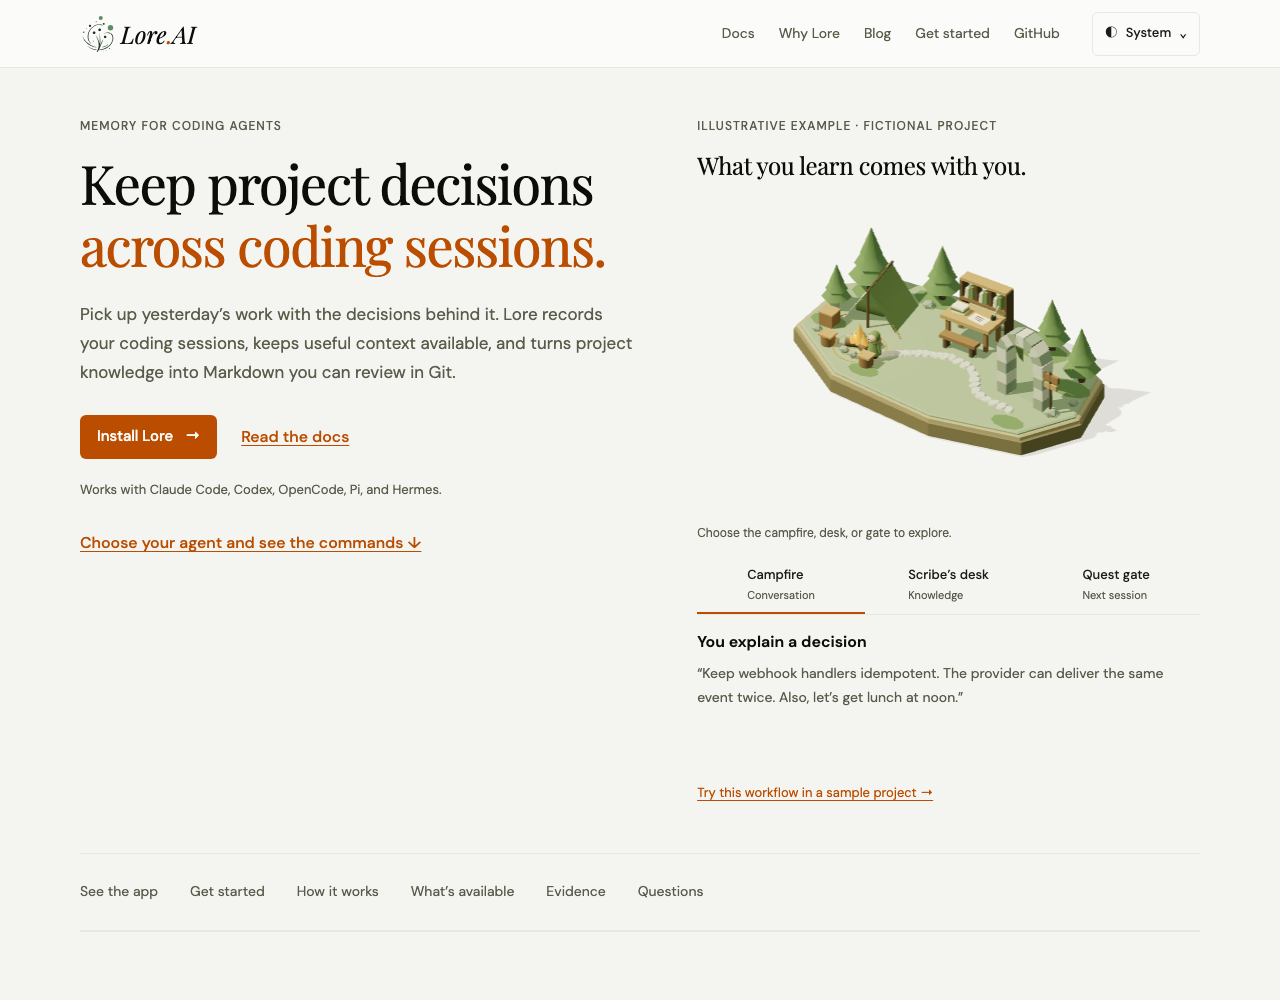
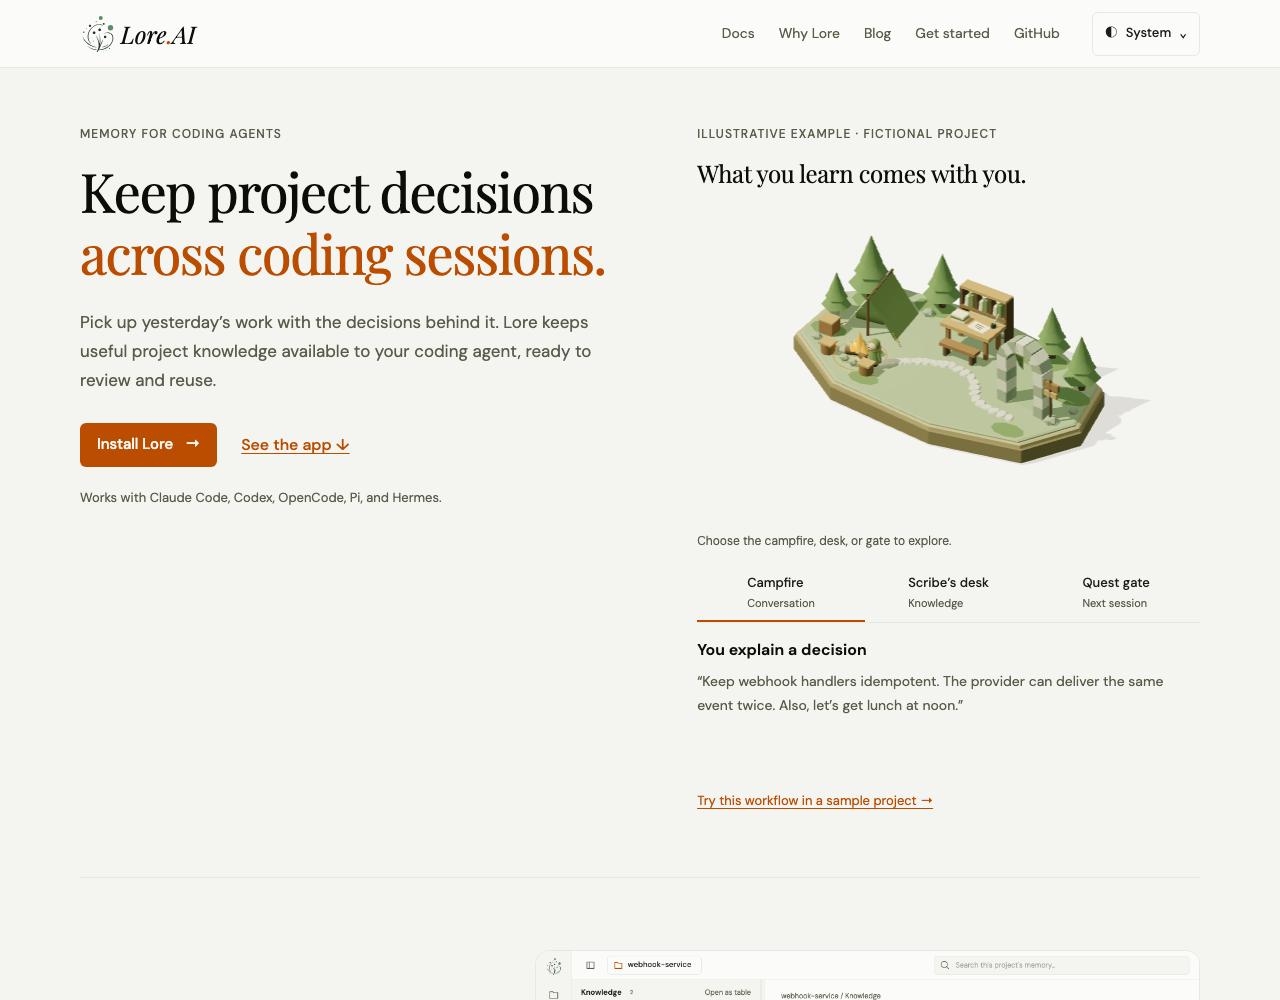
feat(website): Simplify the homepage around the camp

diff --git a/packages/website/test/browser/journey.spec.ts b/packages/website/test/browser/journey.spec.ts
@@ -27,15 +27,15 @@ test("benchmark evidence names the task, denominator and limitations", async ({
 }) => {
   await page.goto("/#evidence");
   const evidence = page.locator("#evidence");
-  await expect(evidence).toContainText("20 questions");
-  await expect(evidence).toContainText("13/20");
-  await expect(evidence).toContainText("5/20");
-  await expect(evidence).toContainText("single session");
-  await expect(
-    evidence.getByRole("link", { name: /methodology/i }),
-  ).toHaveAttribute("href", /benchmark/);
+  await expect(evidence.getByRole("link")).toHaveAttribute("href", /benchmark/);
   await expect(page.locator("#features")).toContainText("Available now");
   await expect(page.locator("#waitlist")).toContainText("Early access");
+  await evidence.getByRole("link").click();
+  const benchmark = page.locator("main");
+  await expect(benchmark).toContainText("Twenty authored questions");
+  await expect(benchmark).toContainText("13/20");
+  await expect(benchmark).toContainText("5/20");
+  await expect(benchmark).toContainText(/single session/i);
 });
 
 test("clipboard denial keeps the command readable and explains manual copying", async ({
@@ -46,7 +46,7 @@ test("clipboard denial keeps the command readable and explains manual copying", 
       value: { writeText: () => Promise.reject(new Error("denied")) },
     }),
   );
-  await page.goto("/");
+  await page.goto("/docs/install/");
   await page.getByRole("button", { name: "Copy installation command" }).click();
   await expect(page.locator(".copy-status")).toContainText(/select and copy/i);
   await expect(page.locator(".install-command")).toContainText(command);
@@ -91,7 +91,7 @@ test("signup preserves the email on error and provides a bounded success receipt
       await route.fulfill({ status: requests === 1 ? 503 : 200, json: {} });
     },
   );
-  await page.goto("/#waitlist");
+  await page.goto("/different/#waitlist");
   const email = page.getByRole("textbox", { name: "Email address" });
   await email.fill("reader@example.com");
   await page.getByRole("button", { name: "Join early access list" }).click();
@@ -190,7 +190,7 @@ test("pending signup is submitted once and its timeout offers recovery", async (
   await page.route("https://app.loops.so/api/newsletter-form/*", async () => {
     requests++;
   });
-  await page.goto("/#waitlist");
+  await page.goto("/different/#waitlist");
   await page
     .getByRole("textbox", { name: "Email address" })
     .fill("reader@example.com");

diff --git a/packages/website/public/theme.css b/packages/website/public/theme.css
@@ -208,3 +208,25 @@ th { font-weight: 500; }
 .tour-panel figcaption { margin-top:.75rem; }
 .home-hero { padding-block:3rem; }
 @media(max-width:600px) { .home-hero { padding-block:2rem; } .tour-picker { display:grid;grid-template-columns:1fr;gap:.375rem; } }
+
+/* A quiet overview; detailed choices live in the tour and installation guide. */
+.home-page .section { padding-block: 4.5rem; }
+.home-page .home-hero { padding-block: 3.5rem 4rem; }
+.product-spotlight { display: grid; grid-template-columns: .75fr 1.25fr; align-items: center; gap: 3.5rem; }
+.spotlight-copy p:not(.eyebrow) { color: var(--muted); margin-block: 1.25rem .75rem; }
+.spotlight-image { margin: 0; min-width: 0; }
+.spotlight-image figcaption { margin-top: .75rem; }
+.home-workflow .workflow { margin-bottom: 1rem; }
+.home-availability { color: var(--muted); font-size: .8125rem; margin-top: 2rem; }
+.home-availability strong { color: var(--text); font-weight: 500; }
+.home-page #questions { max-width: 800px; }
+.home-start { display: flex; flex-wrap: wrap; align-items: center; justify-content: space-between; gap: 1.5rem 2rem; }
+.home-start > div:first-child { max-width: 60ch; }
+.home-start p { color: var(--muted); margin-top: .75rem; }
+.home-resources { display: flex; flex-wrap: wrap; width: 100%; gap: .5rem 2rem; font-size: .8125rem; margin-top: 1rem; }
+.home-resources a { display: inline-flex; align-items: center; min-height: 44px; }
+.tour-intro { padding-bottom: 2.5rem; }
+.tour-intro h1 { margin-top: 1.25rem; }
+.tour-intro p { color: var(--muted); max-width: 65ch; margin-top: 1.25rem; }
+@media (max-width: 900px) { .product-spotlight { grid-template-columns: 1fr; gap: 2rem; } .spotlight-copy { max-width: 55ch; } }
+@media (max-width: 600px) { .home-page .section { padding-block: 3rem; } .home-page .home-hero { padding-block: 2rem 3rem; } .home-resources { gap: 0; } .home-start { align-items: flex-start; } }

diff --git a/packages/website/test/browser/product-journey.spec.ts b/packages/website/test/browser/product-journey.spec.ts
@@ -4,6 +4,10 @@ test("setup chooser supplies the Desktop route and preserves it into the first-s
   page,
 }) => {
   await page.goto("/");
+  await page
+    .locator(".home-hero")
+    .getByRole("link", { name: "Install Lore", exact: true })
+    .click();
   const setup = page.locator(".agent-setup");
   await setup
     .getByRole("radio", { name: "Codex Desktop", exact: true })
@@ -70,6 +74,16 @@ test("product tour shows the actual app and an accessible next step", async ({
   page,
 }) => {
   await page.goto("/");
+  await expect(
+    page.locator(".agent-setup, .tour-picker, .signup, .page-sections"),
+  ).toHaveCount(0);
+  await page
+    .locator("#product")
+    .getByRole("link", { name: "Explore the app", exact: true })
+    .click();
+  await expect(page.locator("h1")).toContainText(
+    "See what your agent remembers",
+  );
   const tour = page.locator(".product-tour");
   await expect(tour).toContainText("Sample data");
   await tour

diff --git a/packages/website/test/browser/website.spec.ts b/packages/website/test/browser/website.spec.ts
@@ -144,6 +144,7 @@ test("keyboard theme controls and native installation copy button", async ({
       .first()
       .evaluate((summary) => getComputedStyle(summary).outlineStyle),
   ).toBe("solid");
+  await page.goto("/docs/install/");
   const copy = page.getByRole("button", { name: "Copy installation command" });
   await copy.focus();
   await page.keyboard.press("Enter");
@@ -226,7 +227,7 @@ test("content and native navigation remain available without JavaScript", async 
 test("newsletter input retains a visible keyboard focus ring", async ({
   page,
 }) => {
-  await page.goto("/");
+  await page.goto("/different/#waitlist");
   const input = page.locator("#waitlist-email");
   await input.focus();
   expect(

diff --git a/docs/website-ui/README.md b/docs/website-ui/README.md
@@ -5,8 +5,10 @@ self-hosted fonts. The first-use flow now leads with concrete product copy,
 installation and a clearly fictional memory example. Shared navigation and compact
 native theme menus give every section a consistent structure.
 
-The homepage keeps the adventurer camp and connects it to a real-app tour and a
-client-specific setup chooser. Campfire, scribe’s desk, and quest gate still select
+The homepage keeps the adventurer camp, one static app preview, a concise everyday
+workflow, practical questions, and an installation link. The full app tour lives
+at `/tour/`; the client-specific setup chooser lives in the installation guides.
+Benchmark details and the team signup stay on their dedicated pages. Campfire, scribe’s desk, and quest gate still select
 the native memory stages. The example now contrasts a durable webhook rule with an
 unrelated lunch plan; the relevance story is explicitly illustrative.
 
@@ -51,12 +53,17 @@ These informed direct selection, finite travel and immediate example text.
 Landmark picking uses the existing Three.js package’s
 [raycaster](https://threejs.org/manual/en/picking.html).
 
+The simplified homepage product section links to the full tour instead of placing
+its controls in the main page.
+
+![Homepage product preview](screenshots/home-product-light.png)
+
 ## Approved audit coverage
 
 | Idea | Delivered behavior |
 | --- | --- |
-| 1. Actual product | Sessions, Knowledge/source history, and model-activity captures from the built app |
-| 2. Agent selection | Six fixed setup choices, including separate Codex CLI/Desktop paths and Pi prerequisites |
+| 1. Actual product | One homepage Knowledge preview links to the full Sessions, Knowledge/source-history, and model-activity tour |
+| 2. Agent selection | Installation and first-session guides offer six fixed choices, separate Codex CLI/Desktop paths, and Pi prerequisites |
 | 3. First success | First-session guide checks a recorded message, with connection-to-verification links |
 | 4. Everyday use | Task guide for resuming, finding decisions, correcting knowledge, switching agents, and sharing |
 | 5. Camp relevance | The preserved camp follows the useful webhook rule and distinguishes unrelated conversation |
@@ -65,12 +72,12 @@ Landmark picking uses the existing Three.js package’s
 | 8. Search | Built Pagefind with root and prefixed-preview search-result navigation verified |
 | 9. Troubleshooting | Symptom-based checks and expected observations, plus safe issue-reporting guidance |
 | 10. Reference clarity | Curated task intros, friendly environment groups, cleaned source-comment artifacts, generator parity |
-| 11. Concrete benefits | Continue a bug fix, switch agents, or share a convention, each linked to a task |
+| 11. Concrete benefits | One concise homepage workflow links to the daily-use guide for resuming, switching agents, and sharing |
 | 12. Decision guide | Why Lore distinguishes instruction files, application memory infrastructure, agent frameworks, and existing-client memory |
 | 13. Data and costs | Local/provider/embedding/telemetry boundaries, opt-out, import preview, and estimated-versus-billed usage |
 | 14. Availability | Local/Git features and Folk Lore early access are explicit, including historical article notes |
 | 15. Concise copy | Redundant copy instructions and fictional-example disclaimers removed; setup prerequisites clarified |
-| 16. Hierarchy/navigation | Functional docs headings, compact setup choices, shared start/help/data links |
+| 16. Hierarchy/navigation | Short homepage overview; full tour, setup, evaluation, and team signup disclosed on destination pages; functional docs headings |
 | 17. Practical blog paths | Plain article kinds, takeaways, availability context, and specific next steps |
 | 18. Reproducible proof | Webhook conversation, illustrative knowledge diff, later task, and separate observable milestones |
 

diff --git a/docs/superpowers/plans/2026-10-27-website-product-journey.md b/docs/superpowers/plans/2026-10-27-website-product-journey.md
@@ -76,3 +76,26 @@ Files: Why Lore, header/footer, blog schema/list/article, historical post notes,
 - Two independent reviews found no outstanding website correctness/security issue after fixes.
 - Broader repository suite remains non-green: completed earlier run had 13,945 pass / 91 fail / 272 skipped, 16 untouched failing files, and two failed snapshots. No clean-base reproduction or full-suite pass is claimed.
 - The final step is committing and updating existing PR #2115 with current evidence; no merge or deployment is authorized.
+
+
+## Follow-up: reduce homepage density
+
+The user found the overall page too busy. Keep the approved camp and all delivered
+help, but use progressive disclosure: one static Knowledge preview links to `/tour/`,
+installation and first-session guides own agent choices, and benchmark/team signup
+links lead to their existing destinations. Remove the homepage section-navigation
+strip, repeated feature blocks, evaluation table, and signup form. Keep legacy
+fragment destinations and exercise the complete interactions on their owning pages.
+
+Follow-up verification: 254 browser tests passed with 6 conditional skips; 14
+website unit tests passed; Astro checked 39 files with zero diagnostics. Workspace
+typechecks, lint, formatting, generated-doc parity, and 37-page social metadata
+passed. The final prefixed build had no unprefixed HTML links and successful search
+and setup navigation at 320/1280px. Direct LinkChecker validation found 68 passing
+internal HTTP destinations and zero broken HTTP links, excluding external and
+non-HTTP discovery references; the standard link wrapper hit an existing Astro
+preview lock. Correctness and security reviews passed the incremental change after
+restoring the shared Why Lore navigation styles. Earlier broader root-test
+limitations remain unchanged. Site builds must run sequentially: a concurrent
+prefix build caused transient 404s in an earlier browser run; the isolated final
+run passed.

diff --git a/packages/website/README.md b/packages/website/README.md
@@ -62,10 +62,11 @@ projection, landmark selection, finite animation and failure paths.
 
 ## Product journey and documentation
 
-The homepage keeps the adventurer camp and adds an actual-app tour, agent-specific
-connection commands, everyday use cases, and a reproducible example. `AgentSetup.astro`
-shares fixed definitions from `src/lib/agent-setup.ts` between the homepage and MDX
-guides. Native radios work without JavaScript; enhancement allowlists the `agent`
+The homepage keeps the adventurer camp and one actual-app preview, with a concise
+everyday workflow and installation entry. `/tour/` owns the full three-view app
+tour; benchmark details and team signup remain on their destination pages.
+`AgentSetup.astro` shares fixed definitions from `src/lib/agent-setup.ts` between
+the installation and first-session MDX guides. Native radios work without JavaScript; enhancement allowlists the `agent`
 query and enables click-only clipboard controls. Launch commands are tested against
 the owning gateway agent registry.
 
